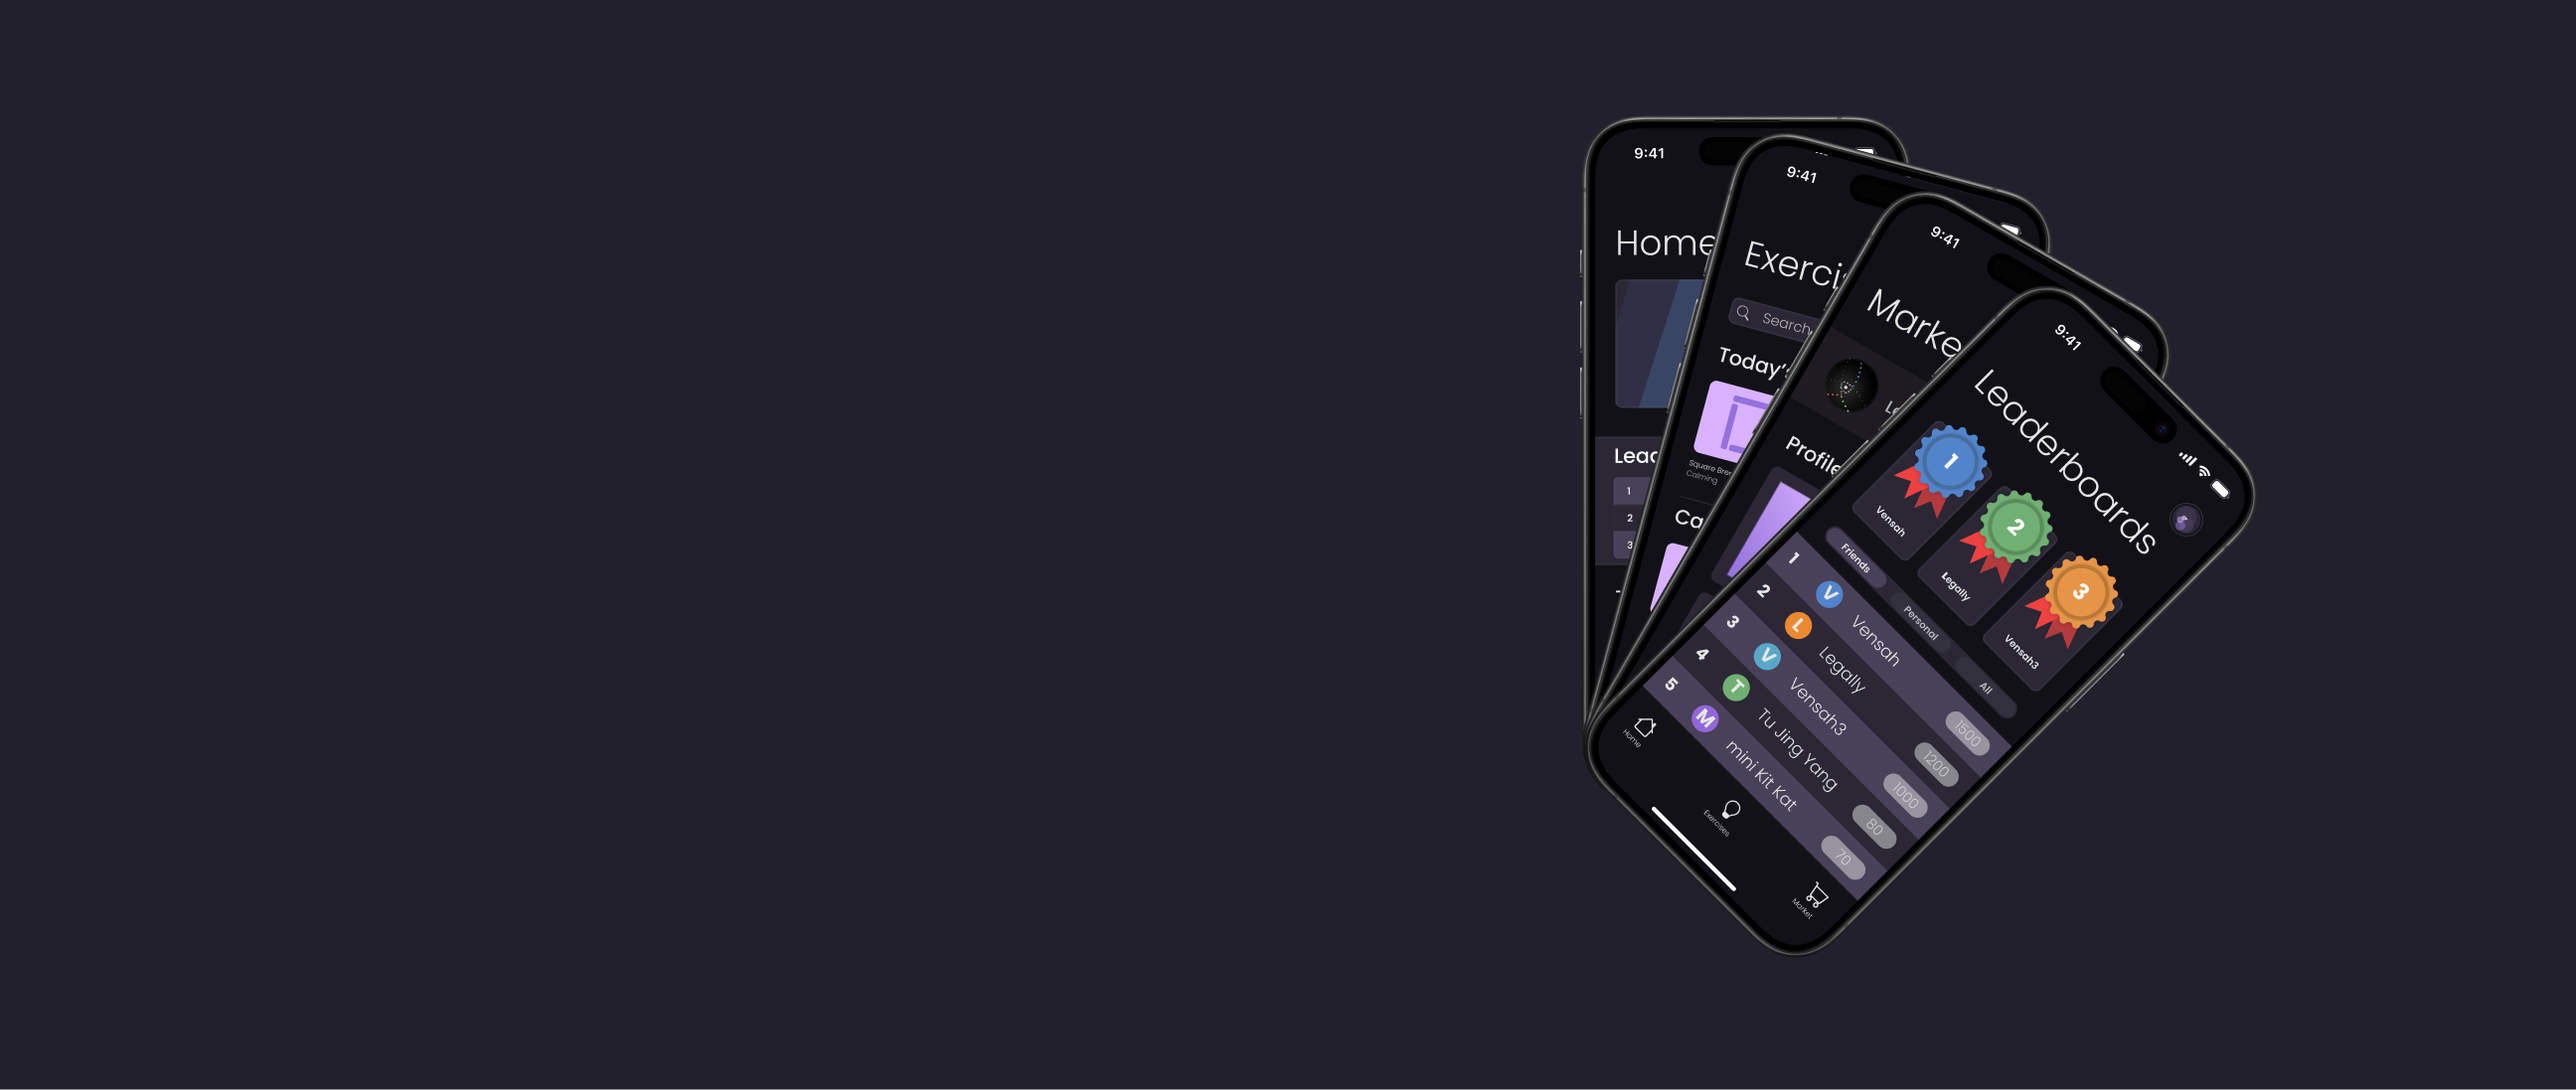
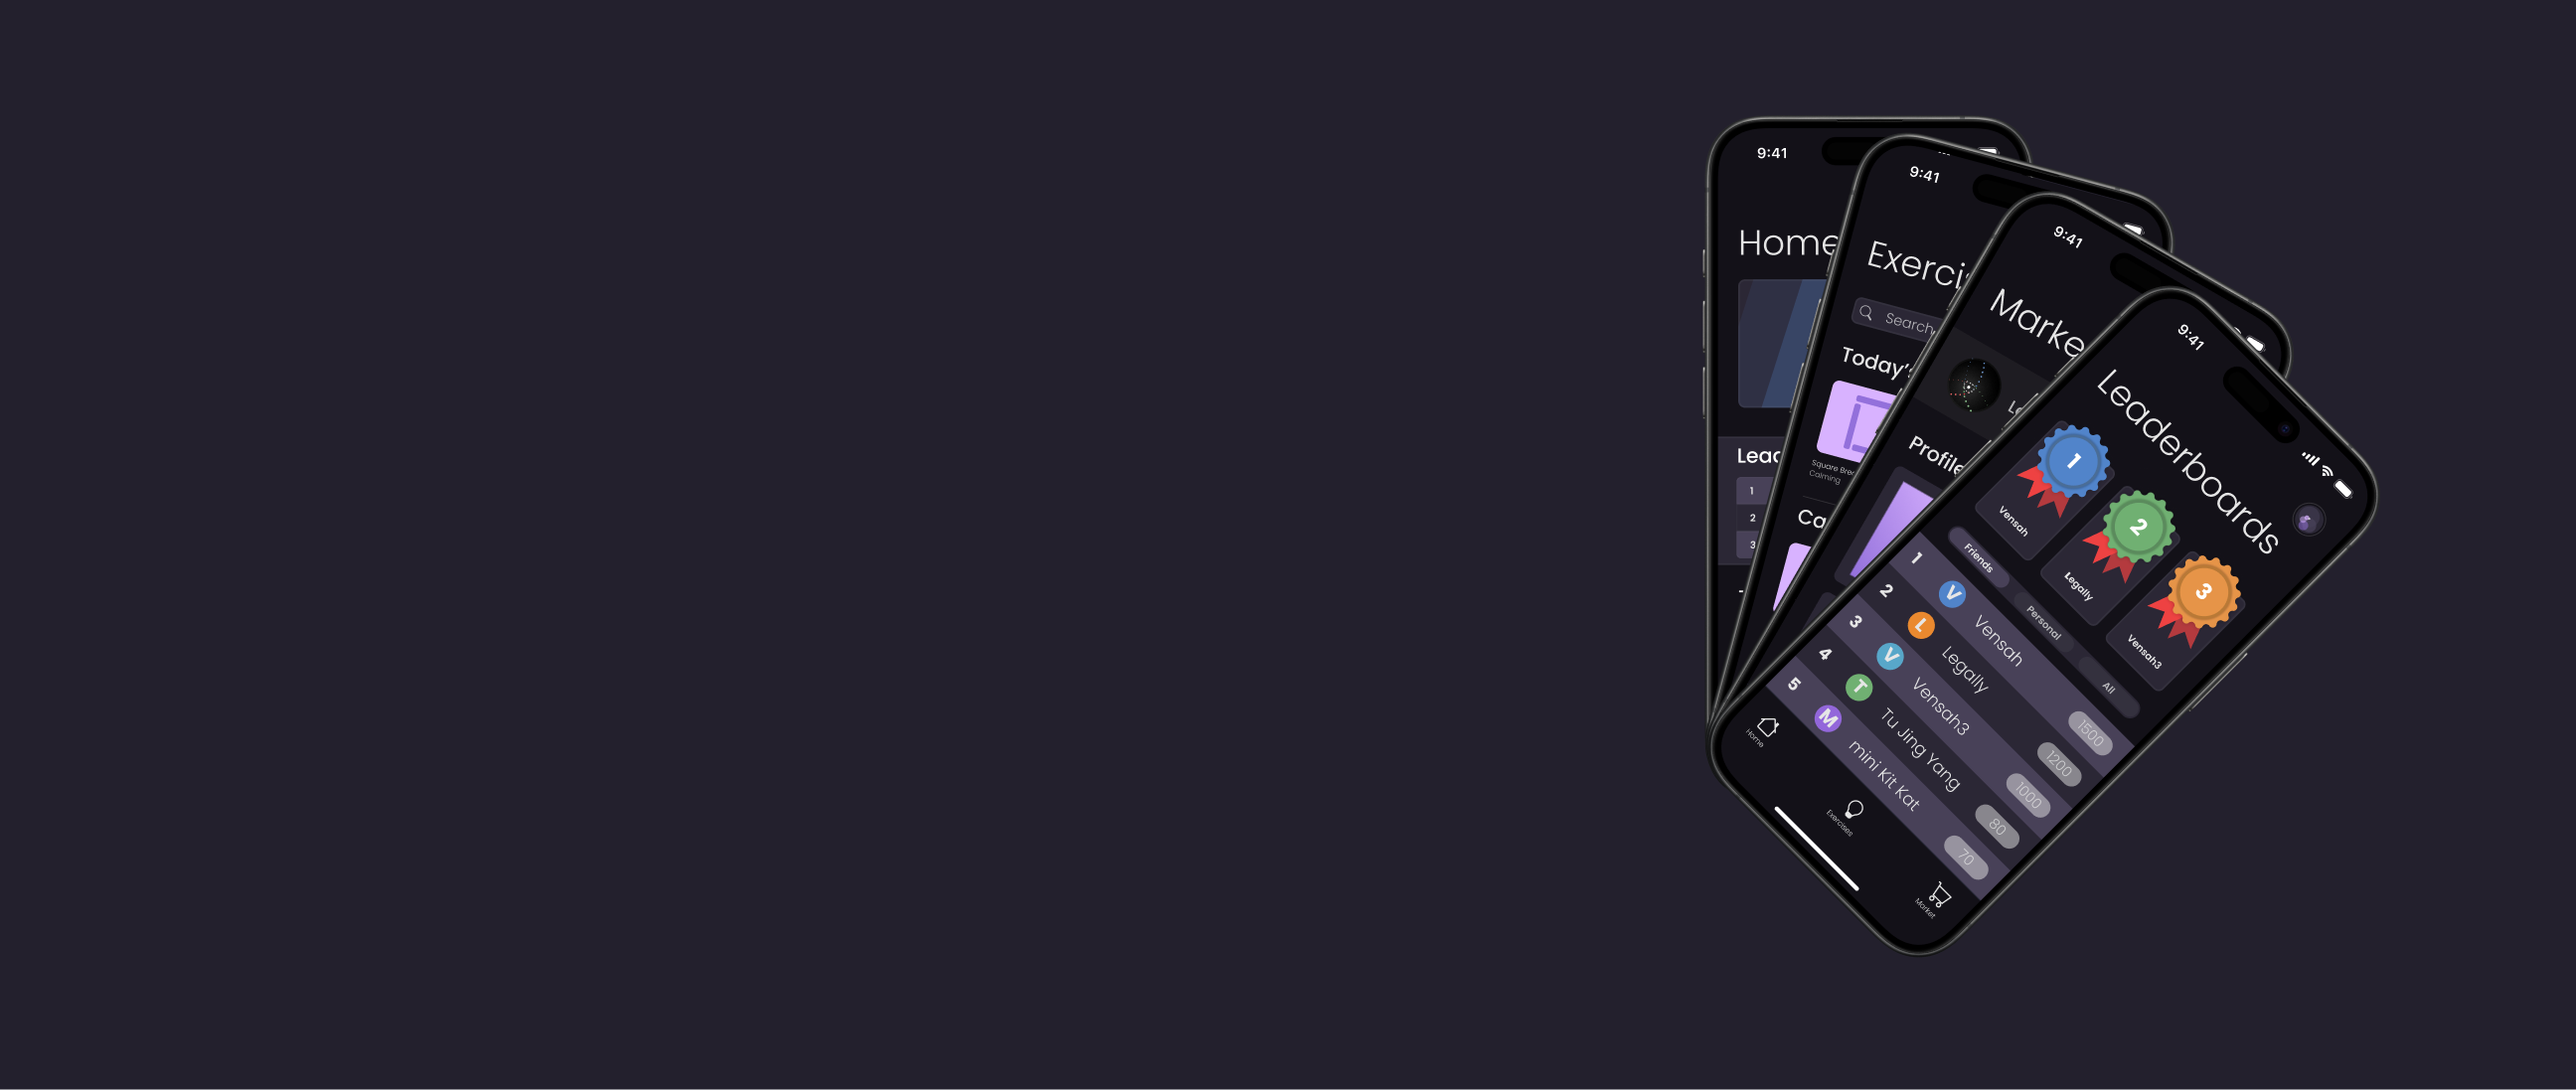
finally responsive /projects but nor responsive /projects/[kat]

Changed region(s): [[0.5938, 0.093, 0.9375, 0.8988]]

diff --git a/components/featured-project.js b/components/featured-project.js
@@ -20,38 +20,51 @@ import { useRouter } from 'next/navigation'
 import { PrimaryButton } from '@/components/primary-button';
 
 
-export default function FeaturedProject({banner, logo, description}){
+export default function FeaturedProject({project}){
     const router = useRouter()
 
     return(
-            <div className=' w-screen' style={{aspectRatio: "1728 / 731"}}>
+            <div className=' w-screen'>
 
                 {/* featured project image */}
-                <div className='absolute top-0 w-screen -z-50' style={{aspectRatio: "1728 / 731"}}>
+                <div className={` h-[136px] w-full lg:hidden`} style={{backgroundColor: project.navbarColor}}/>
+                <div className={`lg:absolute relative top-0 w-screen lg:h-auto h-[35vh] -z-50 lg:aspect-[1728/731] aspect-auto`} style={{aspectRatio: ""}}>
                     <Image
-                        src={banner}
+                        src={project.banner+".png"}
                         fill
                         quality={100}
-                        className='object-contain'
-                        alt='featured project banner'
+                        className='object-cover hidden lg:block'
+                        alt={project.title + "-banner"}
+                    />
+
+                    <Image
+                        src={project.banner+"-mobile.png"}
+                        fill
+                        quality={100}
+                        className='object-cover lg:hidden block'
+                        alt={project.title + "-banner"}
                     />
                 </div>
 
                 {/* featured project description */}
-                <div className='w-[50vw] bg-primary bg-opacity-50 absolute top-0 flex items-center p-16' style={{aspectRatio: "864 / 731"}}>
+                <div className='lg:w-[50vw] w-full lg:bg-primary lg:bg-opacity-50 bg-secondary backdrop-blur-[999px] top-0 flex xl:items-center md:px-16 px-4 xl:pt-0 lg:pt-[136px] lg:aspect-[864/731] aspect-auto lg:pb-0 py-8'>
 
                     <div className='flex-col'>
-                        <div className='relative w-[30vw] mb-10' style={{aspectRatio: "3 / 1"}}>
-                            <Image
-                                src={logo}
-                                fill
-                                quality={100}
-                                className='object-contain'
-                                alt='featured project logo'
-                            />
+
+                        <div className='lg:flex-col md:flex flex-col xl:gap-10 gap-4'>
+                            <div className='lg:block relative lg:w-[30vw] md:w-[60vw] w-[80vw]' style={{aspectRatio: "3 / 1"}}>
+                                <Image
+                                    src={project.logo}
+                                    fill
+                                    quality={100}
+                                    className='object-contain'
+                                    alt={project.title + "-logo"}
+                                />
+                            </div>
+                            <p className='text-base text-white75 font-light w-full'>{project.description}</p>
                         </div>
-                        <p className='text-base text-white75 font-light w-4/5'>{description}</p>
-                        <PrimaryButton text={"View"} className='pt-10' handleClick={() => router.push('/projects/attentia')}/>
+
+                        <PrimaryButton text={"View"} className='xl:pt-10 pt-6' handleClick={() => router.push('/projects/attentia')}/>
                     </div>
 
                 </div>

diff --git a/components/ui/card-carousel-content.jsx b/components/ui/card-carousel-content.jsx
@@ -24,25 +24,37 @@ export function CardCarouselContent({content, position = false}) {
             fill
             priority
             className='object-cover relative z-0'
-            alt="supporting image"
+            alt="supporting-image"
           />
         </div>
       </div>
 
 
 
-      <div className={`lg:w-3/4 leading-8 p-4 lg:p-8 flex-col justify-between h-full ${position === "full" ? 'hidden':''}`} >
-        <h1 className={`lg:pb-[88px]`} dangerouslySetInnerHTML={{ __html: content[index].text }}></h1>
+      <div className={`lg:w-3/4 leading-8 p-4 lg:p-8 flex-col justify-between h-full ${position === "full" ? 'hidden':''}`} style={{aspectRatio: `${showButtons === true ? '120' : '100'} / 100`}} >
       
-        <div className='lg:absolute lg:bottom-0 flex gap-8 my-8'>
+        <h1 className="h-full overflow-scroll relative">
+          {/* <div className="gradient-overlay  z-50"></div> */}
+          {content[index].text}
+          <div className='absolute bottom-0 left-0 right-0 h-10'>
+            <div className="fixed gradient-overlay bg-gradient-to-b from-transparent to-black"></div>
+          </div>
+
+        </h1>
+        <div className='absolute top-0 h-[10%] bg-gradient-to-b bg-transparent from-white to-secondary'></div>
+
       
-          <button className={`flex items-center justify-center w-10 h-10 rounded-full bg-white15  ${index === 0 ? 'opacity-50' : 'md:hover:opacity-75'} ${showButtons === true ? 'flex' : 'hidden'}`} onClick={() => { if(index > 0){setIndex(index-1)} }}>
-            <FaArrowLeft className='w-6 h-6 fill-white75'/>
-          </button>
-      
-          <button className={`flex items-center justify-center w-10 h-10 rounded-full bg-white15  ${index === content.length-1 ? 'opacity-50' : 'md:hover:opacity-75'} ${showButtons === true ? 'flex' : 'hidden'}`} onClick={() => { if(index < content.length-1){setIndex(index+1)} }}>
-            <FaArrowRight className='w-6 h-6 fill-white75'/>
-          </button>
+        <div className='lg:absolute lg:bottom-0'>
+
+          <div className='flex gap-8 my-8'>
+                <button className={`flex items-center justify-center w-10 h-10 rounded-full bg-white15  ${index === 0 ? 'opacity-50' : 'md:hover:opacity-75'} ${showButtons === true ? 'flex' : 'hidden'}`} onClick={() => { if(index > 0){setIndex(index-1)} }}>
+                  <FaArrowLeft className='w-6 h-6 fill-white75'/>
+                </button>
+            
+                <button className={`flex items-center justify-center w-10 h-10 rounded-full bg-white15  ${index === content.length-1 ? 'opacity-50' : 'md:hover:opacity-75'} ${showButtons === true ? 'flex' : 'hidden'}`} onClick={() => { if(index < content.length-1){setIndex(index+1)} }}>
+                  <FaArrowRight className='w-6 h-6 fill-white75'/>
+                </button>
+          </div>
       
         </div>
       

diff --git a/app/projects/page.js b/app/projects/page.js
@@ -29,11 +29,11 @@ export default function Projects(){
 
     return(
         <>
-            <FeaturedProject banner={projects[0].banner} logo={projects[0].logo} description={projects[0].description}/>
+            <FeaturedProject project={projects[0]}/>
 
-            <div className='flex-col m-16'>
+            <div className='flex-col my-16 md:mx-16 mx-4'>
                 <p className='text-h3 text-white100 font-medium mb-4'>Projects</p>
-                <div className='flex justify-between'>
+                <div className='flex md:flex-row flex-col md:justify-between gap-10'>
                     {
                         landingPageProjects.map((project, index) => (
                             <ProjectThumbnail key={index} path={`/projects/${project.kat}`} title={project.title} image={project.image} tags={project.tags} index={index}/>

diff --git a/lib/projects.js b/lib/projects.js
@@ -20,7 +20,7 @@ export const projects = [
         fullPoster: "/images/projects/attentia/full-poster.png",
 
         //featured project stuff
-        banner: "/images/projects/attentia/banner.png",
+        banner: "/images/projects/attentia/banner",
         logo: "/images/projects/attentia/logo.png",
 
         //links
@@ -59,7 +59,8 @@ export const projects = [
             },
         ],
 
-        navbarColor: "#131118"
+        navbarColor: "#131118",
+
     },
 
 
@@ -78,7 +79,7 @@ export const projects = [
         fullPoster: "/images/projects/smart-sheet/full-poster.png",
 
         //featured project stuff
-        banner: "/images/projects/smart-sheet/banner.png",
+        banner: "/images/projects/smart-sheet/banner",
         logo: "/images/projects/smart-sheet/logo.png",
 
         links:[

diff --git a/components/project-thumbnail.js b/components/project-thumbnail.js
@@ -16,7 +16,7 @@ export default function ProjectThumbnail({path, image, title, tags}){
     const router = useRouter()
 
     return(
-        <Link href={path} className='group w-[30%]' onClick={()=>{console.log(image)}}>
+        <Link href={path} className='md:group md:w-[30%] w-full' onClick={()=>{console.log(image)}}>
             <div className='flex-col bg-secondary rounded-[1rem] overflow-clip p-2 group-active:brightness-125 transition-all duration-350'>
                 <div className='opacity-90 relative w-[(100vw-128px)/3] rounded-[0.5rem] overflow-clip group-hover:opacity-70 group-active:brightness-75 transition-all duration-350' style={{aspectRatio: "540 / 300"}}>
                     <Image

diff --git a/app/projects/[kat]/page.js b/app/projects/[kat]/page.js
@@ -32,7 +32,7 @@ export default function ProjectsDetailPage({ params }) {
                         fill
                         quality={100}
                         className='object-scale-down object-top'
-                        alt='project-image'
+                        alt={project.title + "-full-poster"}
                     />
                 </div>
                 {/* <div className='w-screen h-[15vw]' style={{ background: `linear-gradient(to bottom, ${project.navbarColor === null ? "#070907" : project.navbarColor}, ${"#070907"})` }}/> */}

diff --git a/components/about-hero.js b/components/about-hero.js
@@ -53,8 +53,8 @@ export function AboutHero(){
               </div>
 
               <TextGenerateEffect
-                words={"Student, Developer & President"}
-                className={"text-h3 md:text-h1 font-bold leading-tight pb-4 md:pb-8 lg:w-[60%]"}
+                words="Student, Developer & President"
+                className={"text-h3 md:text-h1 font-bold leading-tight pb-4 md:pb-8 w-full lg:w-[75%] xl:w-[55%]"}
                 color={"white100"}
                 duration={1}
               />

diff --git a/components/navbar.js b/components/navbar.js
@@ -79,7 +79,7 @@ export function Navbar({className, style}){
                     <Image
                       src={profilePic}
 
-                      alt="Profile Picture"
+                      alt="vensah-profile-picture"
                       className="inline w-10 h-10"
                     />
                   </div>

diff --git a/components/footer.js b/components/footer.js
@@ -28,7 +28,7 @@ const Footer = () => {
                 <div className='rounded-full w-8 h-8 overflow-hidden'>
                   <Image
                     src={profilePic}
-                    alt="Profile Picture"  
+                    alt="vensah-profile-picture"  
                   />
                 </div>
 

diff --git a/app/page.js b/app/page.js
@@ -8,8 +8,6 @@ import { CardCarouselContent } from '@/components/ui/card-carousel-content';
 import { AboutHero } from "@/components/about-hero";
 import { Timeline } from "@/components/ui/timeline";
 
-import { AboutSection } from "@/components/about-section";
-
 //Next JS stuff
 import Image from "next/image";
 

diff --git a/tailwind.config.js b/tailwind.config.js
@@ -11,7 +11,7 @@ module.exports = {
   	screens: {
       sm: '640px',
       md: '768px',
-      lg: '1100px',
+      lg: '1024px',
       xl: '1280px',
       '2xl': '1536px',
   	},
